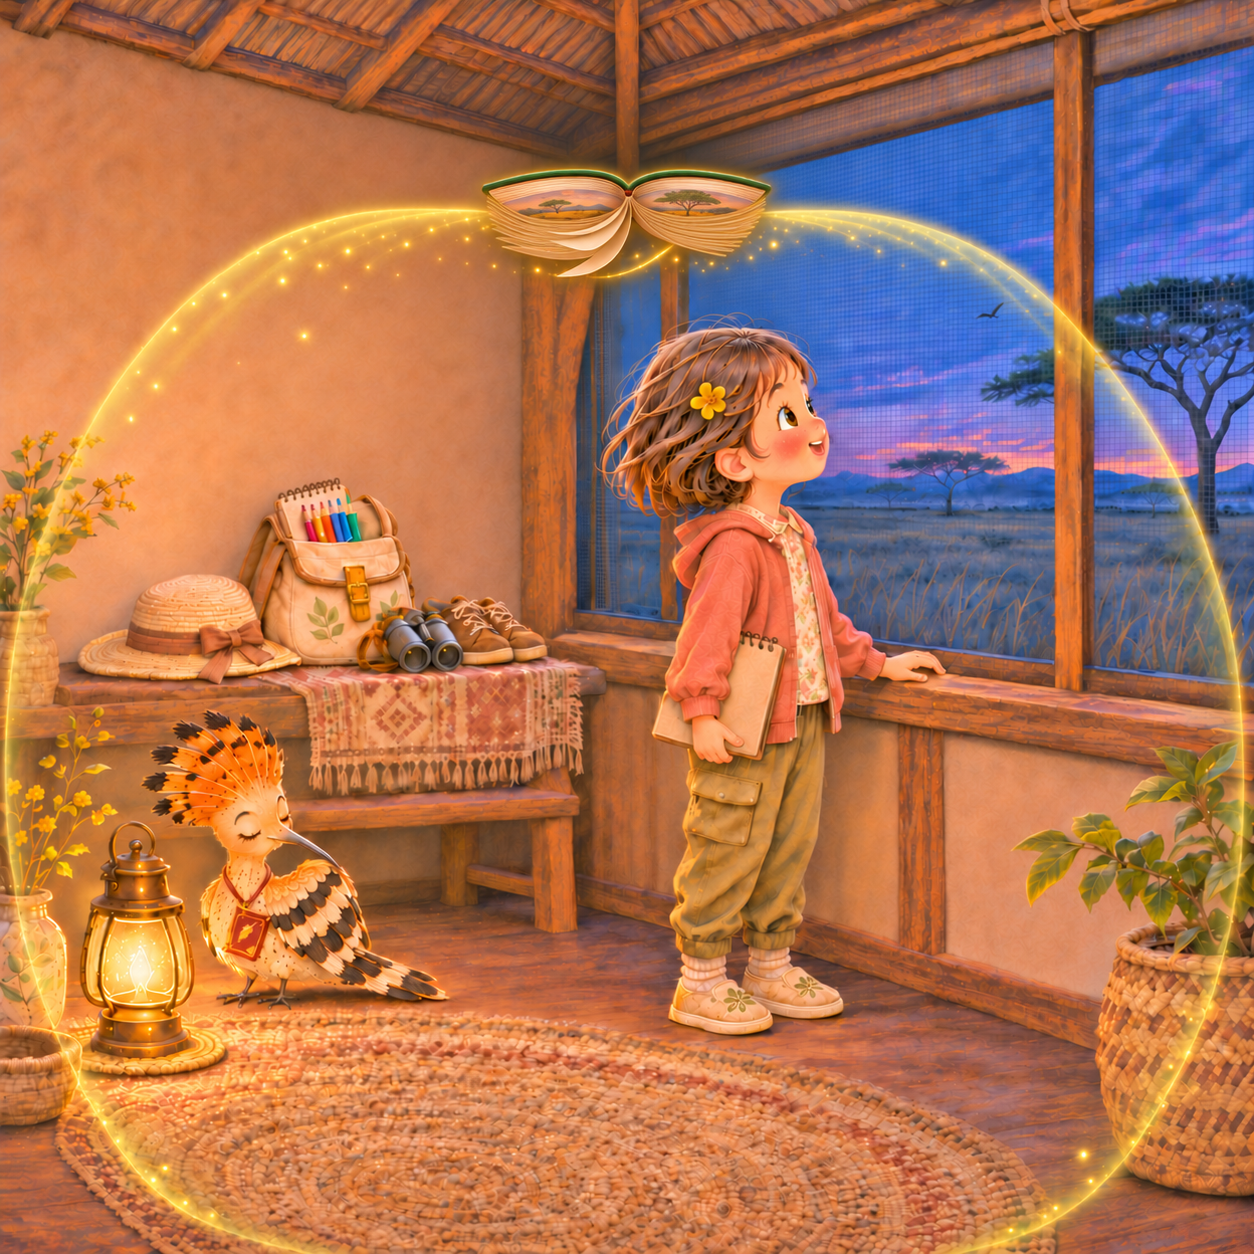
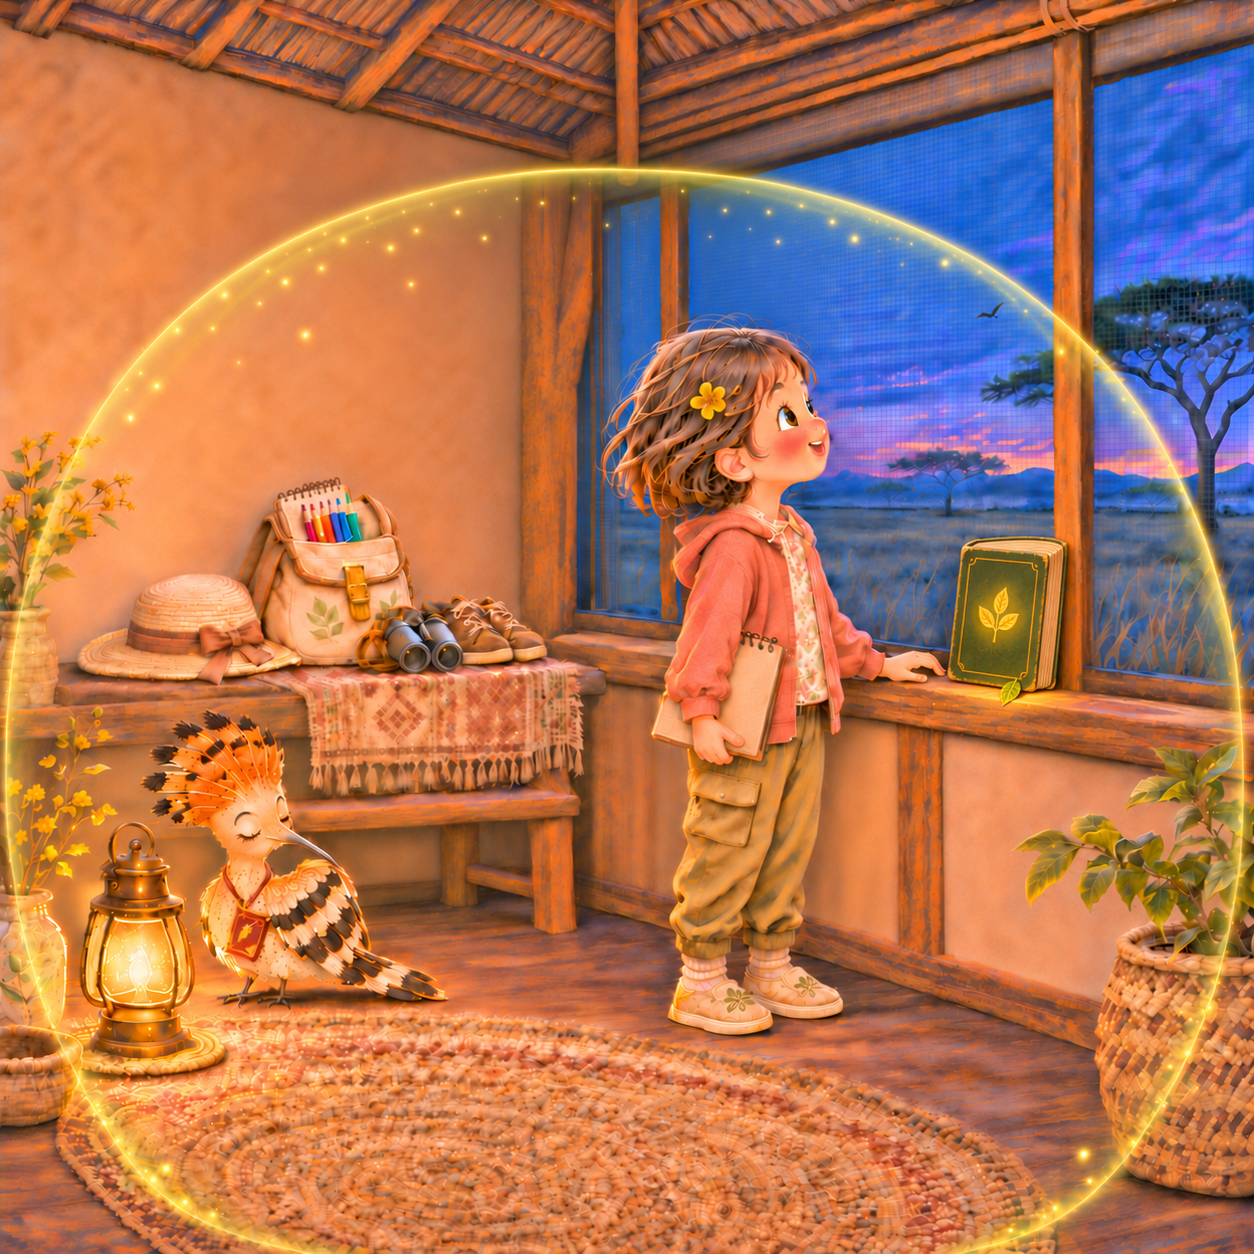
改为窗台合书维持夜间光罩

diff --git a/非洲草原绘本/制图剧本.md b/非洲草原绘本/制图剧本.md
@@ -31,8 +31,8 @@
 
 - **小满：** 5岁，沿用已确认的短黑褐发、圆润脸型、棕眼和儿童比例。浅棕色双肩布包里有笔记本、彩铅、饮水瓶、薄珊瑚色开衫和轻便室内鞋；本次增加一副儿童使用的轻便望远镜，挂带收束，不缠手腕和颈部。魔法书只在赶路时载着她，乘坐时坐稳在左右对称展开的书页中央；到达观察点后下到安全地面，魔法书缩小、收拢或停在身边，不让她站在书上观察动物。
 - **羽羽：** 金棕色戴胜鸟书精灵，细长微下弯黑喙、黑尖扇形羽冠、黑白横斑翅膀、书签状尾羽；细颈绳上的砖红金边羽叶纹小书挂件保持连续。羽羽是随书同行的角色，不充当草原所有野生鸟类的替身。她负责讲解和调整书签方向：草原小百科的知识由她讲给小满听，讲解时停在书页边、书脊或笔记本旁，用喙指点，长篇知识不连续倾倒。
-- **魔法书：** 同一本旧绿皮自然百科，可按需要自由改变大小。赶路时放大并平稳低飞，小满坐在中央；到达观察点后落稳，小满下到安全地面，书缩小或收拢，不充当持续观察台。所有展开状态都必须左右两部分等宽、等厚、角度对称，中间书槽清楚，不能一边大一边小或一边翘成单翼。白天赶路和观察不出现保护光罩。夜间P31—P35，魔法书放大后飞到休息室上方，近水平地倒悬展开，内页朝向下方的小满和羽羽，再从朝下的书槽与页缘生成柔和、半透明的金绿色光罩。儿童高度镜头只能看到有明显透视压缩的朝下内页；页内图画必须贴合左右纸面分别旋转、缩短和弯曲，不能像正对镜头的平面图标。绿色封皮位于页块背面；左右页块应由同一书脊连续展开为多层页叠，纸张从书槽到外缘呈渐进曲率和自然间距。如出现翻页，相邻活动纸页依次处于刚离开、向下弯曲和接近另一侧页叠的连续阶段，只能在书本下方运动，禁止越过或穿出绿色封面。亮光收在罩内，不照射或惊扰野生动物。
-- **自然百科：** 旧绿皮、厚米白书页、叶形书签。P2出现纸上脚印与发光小路，带人物抵达草原营地；普通探索页仍为真实草原。书在P3、P13、P22和P30承担赶路，在P31—P35飞到室内上方生成夜间保护光罩；其余观察页缩小、收拢或安静停在人物身边。P36在营地收好笔记后，经书页绿光返回图书馆。
+- **魔法书：** 同一本旧绿皮自然百科，可按需要自由改变大小。赶路时放大并平稳低飞，小满坐在中央；到达观察点后落稳，小满下到安全地面，书缩小或收拢，不充当持续观察台。所有展开状态都必须左右两部分等宽、等厚、角度对称，中间书槽清楚，不能一边大一边小或一边翘成单翼。白天赶路和观察不出现保护光罩。夜间P31—P35不再悬浮或翻页：魔法书保持合拢，以书底竖立在休息室窗台上，轻靠窗框或小书挡获得明确支撑；旧绿封面、厚米白页边、金色叶纹和叶形书签清楚。保护光罩由合上书本的封面叶纹与书底微光启动，罩顶保持平滑完整，不出现向上飞书、散页或聚光射线；亮光收在罩内，不照射或惊扰野生动物。
+- **自然百科：** 旧绿皮、厚米白书页、叶形书签。P2出现纸上脚印与发光小路，带人物抵达草原营地；普通探索页仍为真实草原。书在P3、P13、P22和P30承担赶路；P31—P35合拢后竖立在室内窗台上，安静维持夜间保护光罩；其余观察页缩小、收拢或安静停在人物身边。P36在营地收好笔记后，小满从窗台取下书并打开，经书页绿光返回图书馆。
 - **观察设施：** 水塘远侧有固定观察屋，营地有封闭休息室和纱窗。魔法书在屋旁落稳，小满进入设施；不让小满无缘无故出现在野生动物身旁。
 
 ### 衣服与场景衔接
@@ -558,7 +558,7 @@
 
 **图内标题：** 第四章／草原没有睡着
 
-**画面建议：** 营地封闭休息室内，小满披上从布包中取出的薄珊瑚色开衫，换上轻便室内鞋，在纱窗前望向日落后的草原。魔法书改变大小，缩至画幅宽度约四分之一后飞到室内上方，近水平地倒悬并左右对称展开：内页朝下，左右页块等宽等厚、角度对称，中央书槽居中，绿色封皮位于页块背面。儿童高度仰视只能看见经过透视压缩的朝下内页，页内自然图画贴合各自纸面透视，不能正面朝向镜头。左右页块由同一中央书槽连续展开成多层页叠，层间距离和纸张弧度从书槽到外缘逐渐放开；数张相邻薄页依次处在刚掀起、向小满方向下弯和即将落向另一侧的状态，形成连贯翻页过程，而不是几条孤立纸带。分层页缘与轻微金色弧光只出现在书本下方，不能越过绿色封面或画成脱落散页。半透明金绿色保护光罩从朝下的书槽与页缘向下展开，覆盖小满和羽羽；亮光收在罩内，不射向窗外。顶灯调暗，小灯放在室内矮桌，羽羽停在灯旁理着羽冠。天空从暖色渐转蓝紫，不将这一页画成白昼。室外只有草影和少量树影，不安排大型动物贴着窗子。
+**画面建议：** 营地封闭休息室内，小满披上从布包中取出的薄珊瑚色开衫，换上轻便室内鞋，在纱窗前望向日落后的草原。魔法书保持合拢，以书底竖立在小满扶窗手右侧的木窗台上，与手和身体留出间隔；书本轻靠竖向窗框或隐蔽的小木书挡，底边与窗台接触清楚，不悬空。旧绿硬封面以轻微三分之四角度朝向镜头，厚米白页边、金色叶纹和从书底露出的叶形书签可辨，不出现文字。封面叶纹与书底散发克制的金绿色微光，启动覆盖小满和羽羽的半透明保护光罩；罩顶是平滑连续的弧线，室内上方不再出现飞书、翻页或聚光射线，亮光也不射向窗外。顶灯调暗，小灯放在室内矮桌，羽羽停在灯旁理着羽冠。天空从暖色渐转蓝紫，不将这一页画成白昼。室外只有草影和少量树影，不安排大型动物贴着窗子。
 
 **绘本文字：**
 
@@ -622,7 +622,7 @@
 
 **图内标题：** 雨点落下来的时候
 
-**画面建议：** 夜间短雨终于落下，小满与羽羽仍在有屋顶和纱窗的休息室内。魔法书继续悬浮在上方，保持内页朝下、左右对称的倒悬展开状态，保护光罩从书槽与页缘向下覆盖休息区域。屋檐滴水、近处土路渐湿，远处草地保持原有干黄与暗绿，不瞬间铺成嫩绿地毯。小满把本子翻回水塘地图，铅笔指向纸上的水面；书光渐亮，为回程准备。
+**画面建议：** 夜间短雨终于落下，小满与羽羽仍在有屋顶和纱窗的休息室内。合拢的魔法书继续以书底竖立在窗台上，由封面叶纹和书底微光维持覆盖休息区域的平滑保护光罩。屋檐滴水、近处土路渐湿，远处草地保持原有干黄与暗绿，不瞬间铺成嫩绿地毯。小满把本子翻回水塘地图，铅笔指向纸上的水面；窗台书光渐亮，为下一页取书回程准备。
 
 **绘本文字：**
 
@@ -734,7 +734,7 @@
 - 核对P1封面与正文时间分开，P2实际换装、P3乘魔法书出发；P30回营、P31日落、P35夜雨、P36夜间回家、P39次日清晨顺序明确。
 - 核对P4的初始地面线索、P5—P11的比较与P23的汇合揭晓，不在封面提前做任务，不把所有脚印归为同一时刻。
 - 核对小满和羽羽的身份连续性；小满只在P3、P13、P22与P30乘书赶路，观察动物时落到安全地面或进入观察屋。身体、头脸与双眼共同指向观察对象；双手分别检查五指结构、掌腕连接和持物接触。
-- 核对魔法书封面、书脊、叶形书签与大小变化逻辑；所有展开状态左右等宽等厚、角度对称、中央书槽清楚。白天不出现保护光罩；P31—P35中书本近水平倒悬、内页朝下，儿童高度镜头看到的是透视压缩的纸面，页内图画与左右页各自的倾斜和弯曲一致，夜间光罩从朝下的书槽与页缘生成。
+- 核对魔法书封面、书脊、叶形书签与大小变化逻辑；所有赶路展开状态左右等宽等厚、角度对称、中央书槽清楚。白天不出现保护光罩；P31—P35中书本必须合拢并以书底竖立在窗台上，底边接触和倚靠支撑明确，夜间光罩由封面叶纹与书底微光启动，室内上方不出现飞书、翻页或聚光射线。
 - 核对魔法书、叶形书签、浅棕布包、笔记本、彩铅和望远镜等固定道具跨页造型一致，不因页面变化换款、变色、复制或随意改变相对比例。服装、帽子与鞋按场景换装，并核对同一连续场景的衔接。
 - 核对平原斑马单蹄、偶蹄动物的两瓣蹄、马赛鸵鸟每脚两趾；不把“动物的手指结构”统一套成人手五指。
 - 核对非洲草原象、马赛长颈鹿、蓝角马、黑斑羚、非洲水牛、马赛鸵鸟、红嘴牛椋鸟、红嘴奎利亚雀的物种外形与足部，避免多种动物混成一种。

diff --git a/skills/childrens-picturebook-illustration/SKILL.md b/skills/childrens-picturebook-illustration/SKILL.md
@@ -79,7 +79,7 @@ Apply these constraints to this project. The user's latest confirmed correction 
 Use the [formal savanna manuscript](../../非洲草原绘本/制图剧本.md), [savanna constraints](../../非洲草原绘本/制图约束规范.md), the shared character sheets and the user's latest corrections as the source of truth.
 
 - **Travel versus observation:** the magic book carries Xiaoman only on designated travel pages such as P3, P13, P22 and P30. At an animal observation point, Xiaoman steps onto safe ground or enters the fixed observation hut; the book shrinks, closes or rests nearby. Do not keep her standing on the book while observing wildlife, and do not add a daytime protection dome.
-- **Night protection and overhead perspective:** on P31—P35 the magic book may freely change size, fly above the camp lounge and hover nearly horizontal in an inverted open state, with inner pages facing downward toward Xiaoman and Yuyu. A child-height upward camera sees strongly foreshortened downward-facing pages, not a front-facing book logo. Page illustrations must rotate, shorten and curve with each page plane; the green covers sit behind the page blocks. Build both page blocks as continuous multilayer stacks from one centered spine, with gradually changing spacing and curvature from gutter to outer edge. If pages turn while the book is inverted, show adjacent sheets at successive stages—lifting, bowing downward toward the characters, and approaching the opposite stack—rather than isolated ribbon strips; never let turning pages pass above or through the green covers. Cast the soft semi-transparent golden-green dome from the downward-facing gutter and page edges, and contain the light inside so it does not shine through the screen window or disturb wildlife.
+- **Night protection and closed-book placement:** on P31—P35 the magic book no longer flies or opens. Keep it closed and standing vertically on its bottom edge on the camp lounge windowsill, with a slight stable lean against the window mullion or a discreet book stop. Make the sill contact, center of gravity and support unmistakable. Preserve the old green cover, thick cream page edges, gold leaf emblem and leaf-shaped bookmark. Power the soft semi-transparent golden-green dome with a restrained glow from the closed cover emblem and book base; keep the dome's top smooth and continuous, with no airborne book, page-turn effect, loose sheets or converging spotlight rays. Contain the light so it does not shine through the screen window or disturb wildlife.
 - **Symmetric open-book lock:** whenever the book is open, its left and right page blocks must be equal in width, thickness and opening angle, with a centered readable gutter, matching layered page edges and continuous thin green covers. Reject a one-wing shape, mismatched halves, twisted spine or one side larger than the other.
 - **Gaze and body axis:** lock the actual observation target before drawing. Align feet or seated support, pelvis, chest, shoulders, neck, chin and both pupils toward that target as the pose requires; do not rotate only the eyes or head. Check the full composition and an enlarged face crop.
 - **Hands and fixed props:** inspect each hand enlarged for four fingers plus one thumb, plausible occlusion, correct palm/wrist connection and believable contact. Lock one cross-page model for true recurring props: the green magic book and leaf bookmark, tan backpack, notebook, colored pencils and binoculars; only perspective and distance may change their apparent size. If a project uses the confirmed recorder, it is also a fixed prop and must retain the same body, furry windscreen, controls and hand-to-device scale. Clothing, hats, outerwear and footwear may change with habitat, weather and activity; require continuity only within the same uninterrupted scene or outfit sequence.

diff --git a/非洲草原绘本/制图约束规范.md b/非洲草原绘本/制图约束规范.md
@@ -8,7 +8,7 @@
 - 不出现老虎、亚洲象、袋鼠、南美金刚鹦鹉，不把沙漠或热带密林物种随意搬到开放草原。
 - 小满保持5岁身份、脸型、短发和黄花发夹，衣着、鞋帽按剧本所定天气、路线与活动；羽羽保持戴胜鸟物种特征、书签尾及砖红金边小书挂件。
 - 魔法书只在P3、P13、P22和P30等赶路场景承担乘坐功能。到达观察点后，小满落到安全地面，书缩小、收拢或停在身边；观察动物时不站在魔法书上，白天不出现保护光罩。
-- 夜间P31—P35，魔法书可自由改变大小并飞到休息室上方，近水平倒悬、内页朝下并左右对称展开，再由朝下的书槽与页缘生成半透明金绿色保护光罩。儿童高度镜头只看见有明显透视压缩的朝下内页；页内图画服从左右页各自的倾斜、弯曲与缩短，禁止画成正对镜头的平面图标。绿色封皮位于页块背面；左右页块必须从同一书脊连续形成多层页叠，层间距与曲率由书槽向外缘渐进变化。倒悬状态的翻页只能发生在内页下方，相邻活动页依次处于离开、下弯和回落阶段，不能画成孤立纸带，也不能越过或穿出封面。亮光收在罩内，不照射窗外或惊扰野生动物。
+- 夜间P31—P35，魔法书保持合拢，以书底竖立在休息室窗台上，轻靠窗框或小书挡；底边接触、重心和支撑必须清楚，不得悬空。旧绿封面、厚米白页边、金色叶纹和叶形书签保持固定造型。半透明金绿色保护光罩由封面叶纹与书底的克制微光启动，罩顶保持平滑连续；室内上方不出现飞书、翻页、散页或聚光射线，亮光不照射窗外或惊扰野生动物。
 - 魔法书每次展开时，左右两部分必须等宽、等厚、角度对称，中间书槽清楚，纸页堆与薄绿封皮结构连续；禁止一边大一边小、一边翘起成单翼或书脊错位。
 - 每页先确定观察对象的左右、高低和距离，再同步调整小满的肩胸、腰胯、头颈、下巴及双眼瞳孔；不能只转头或只挪眼珠。双手分别按四指加拇指的五指结构检查，允许自然遮挡，不得多指、少指、融合或掌腕断裂。
 - 固定道具跨页锁定同一模型：旧绿皮魔法书、叶形书签、浅棕布包、笔记本、彩铅和轻便望远镜不得换款、变色、复制或无理由改变相对比例。服装、帽子、鞋与开衫根据天气、场景和活动更换，不作为全书固定道具；只需保证同一连续场景内的换装逻辑和前后衔接。

diff --git a/非洲草原绘本/正式素材/README.md b/非洲草原绘本/正式素材/README.md
@@ -5,11 +5,11 @@
 | 页码 | 页面 | 无字原图 | 状态 |
 |---|---|---|---|
 | P6 | 长腿从树后出现 | [无字图-1254px.png](P6｜长腿从树后出现/无字图-1254px.png) | 小满落地观察；白天无光罩；羽羽停在布包上 |
-| P31 | 第四章：草原没有睡着 | [无字图-1254px.png](P31｜第四章：草原没有睡着/无字图-1254px.png) | 小型魔法书在室内上方倒悬翻页，内页朝下并生成夜间光罩 |
+| P31 | 第四章：草原没有睡着 | [无字图-1254px.png](P31｜第四章：草原没有睡着/无字图-1254px.png) | 合拢的魔法书竖立在窗台上并维持夜间保护光罩 |
 
 ## 文件校验
 
[3 lines of base64/hex data omitted]
 
 后续页面继续锁定小满与羽羽形象、固定道具模型、人物视线和身体轴线、双手五指结构，以及魔法书左右对称展开规则。
